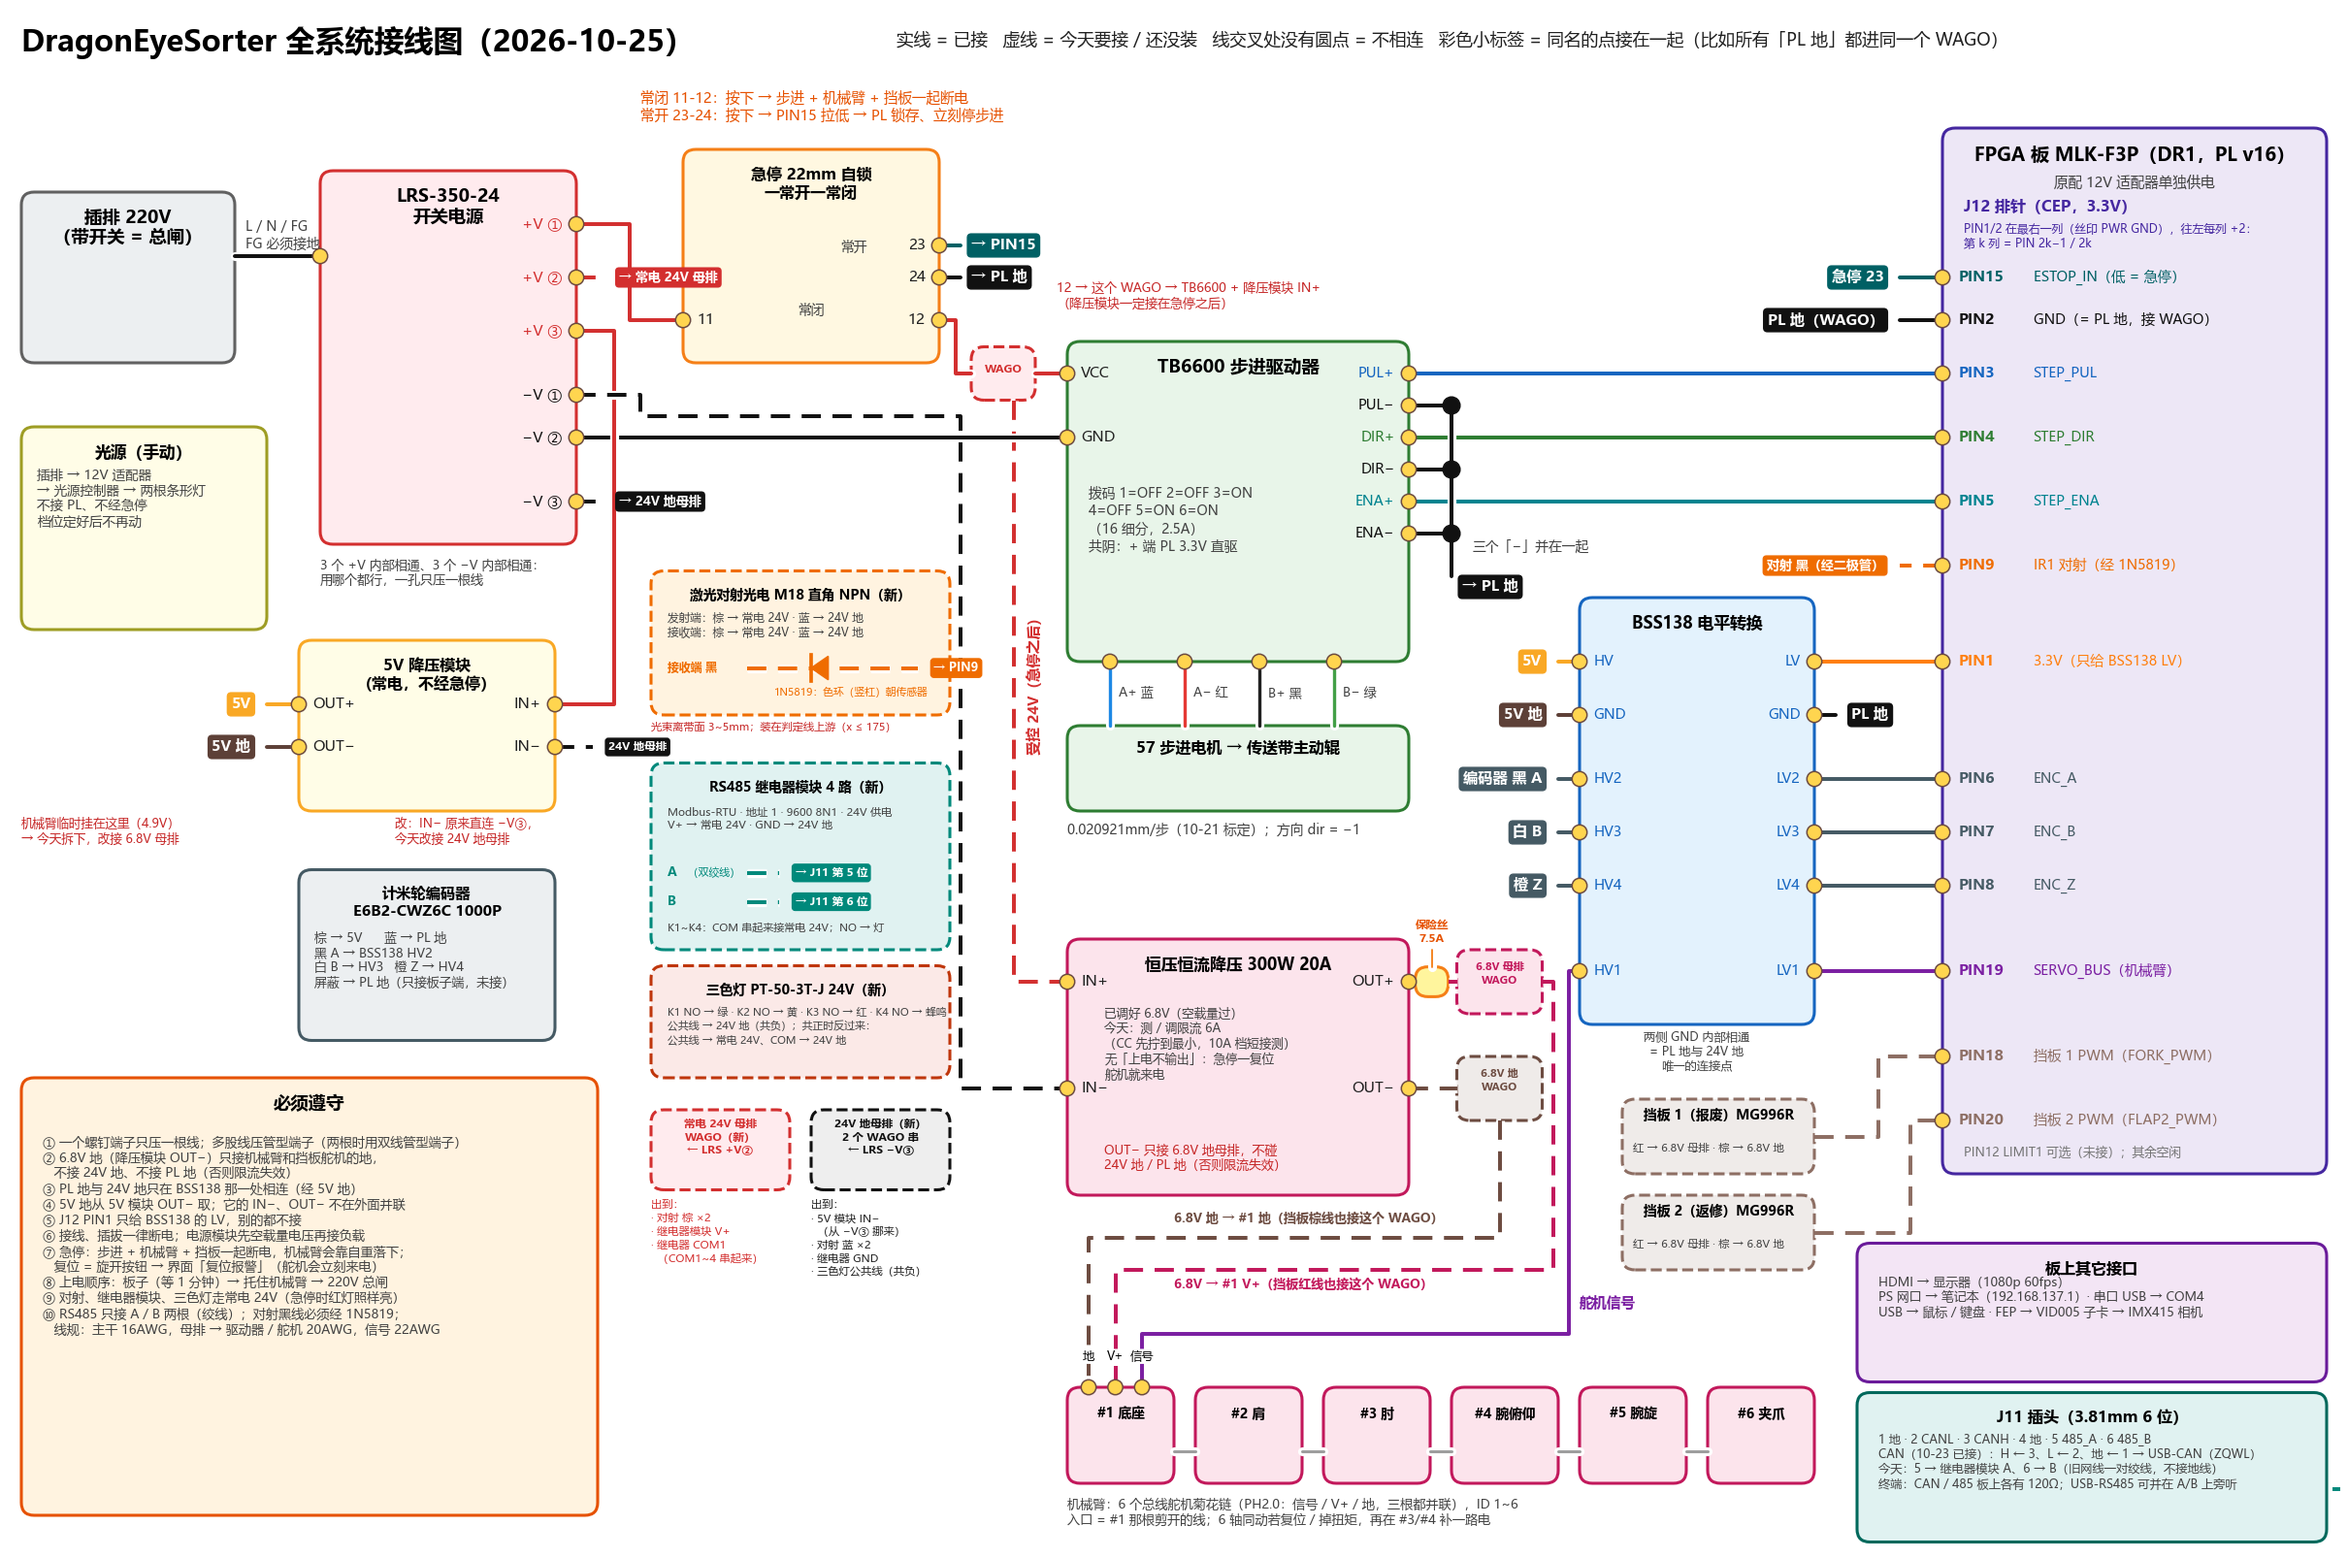
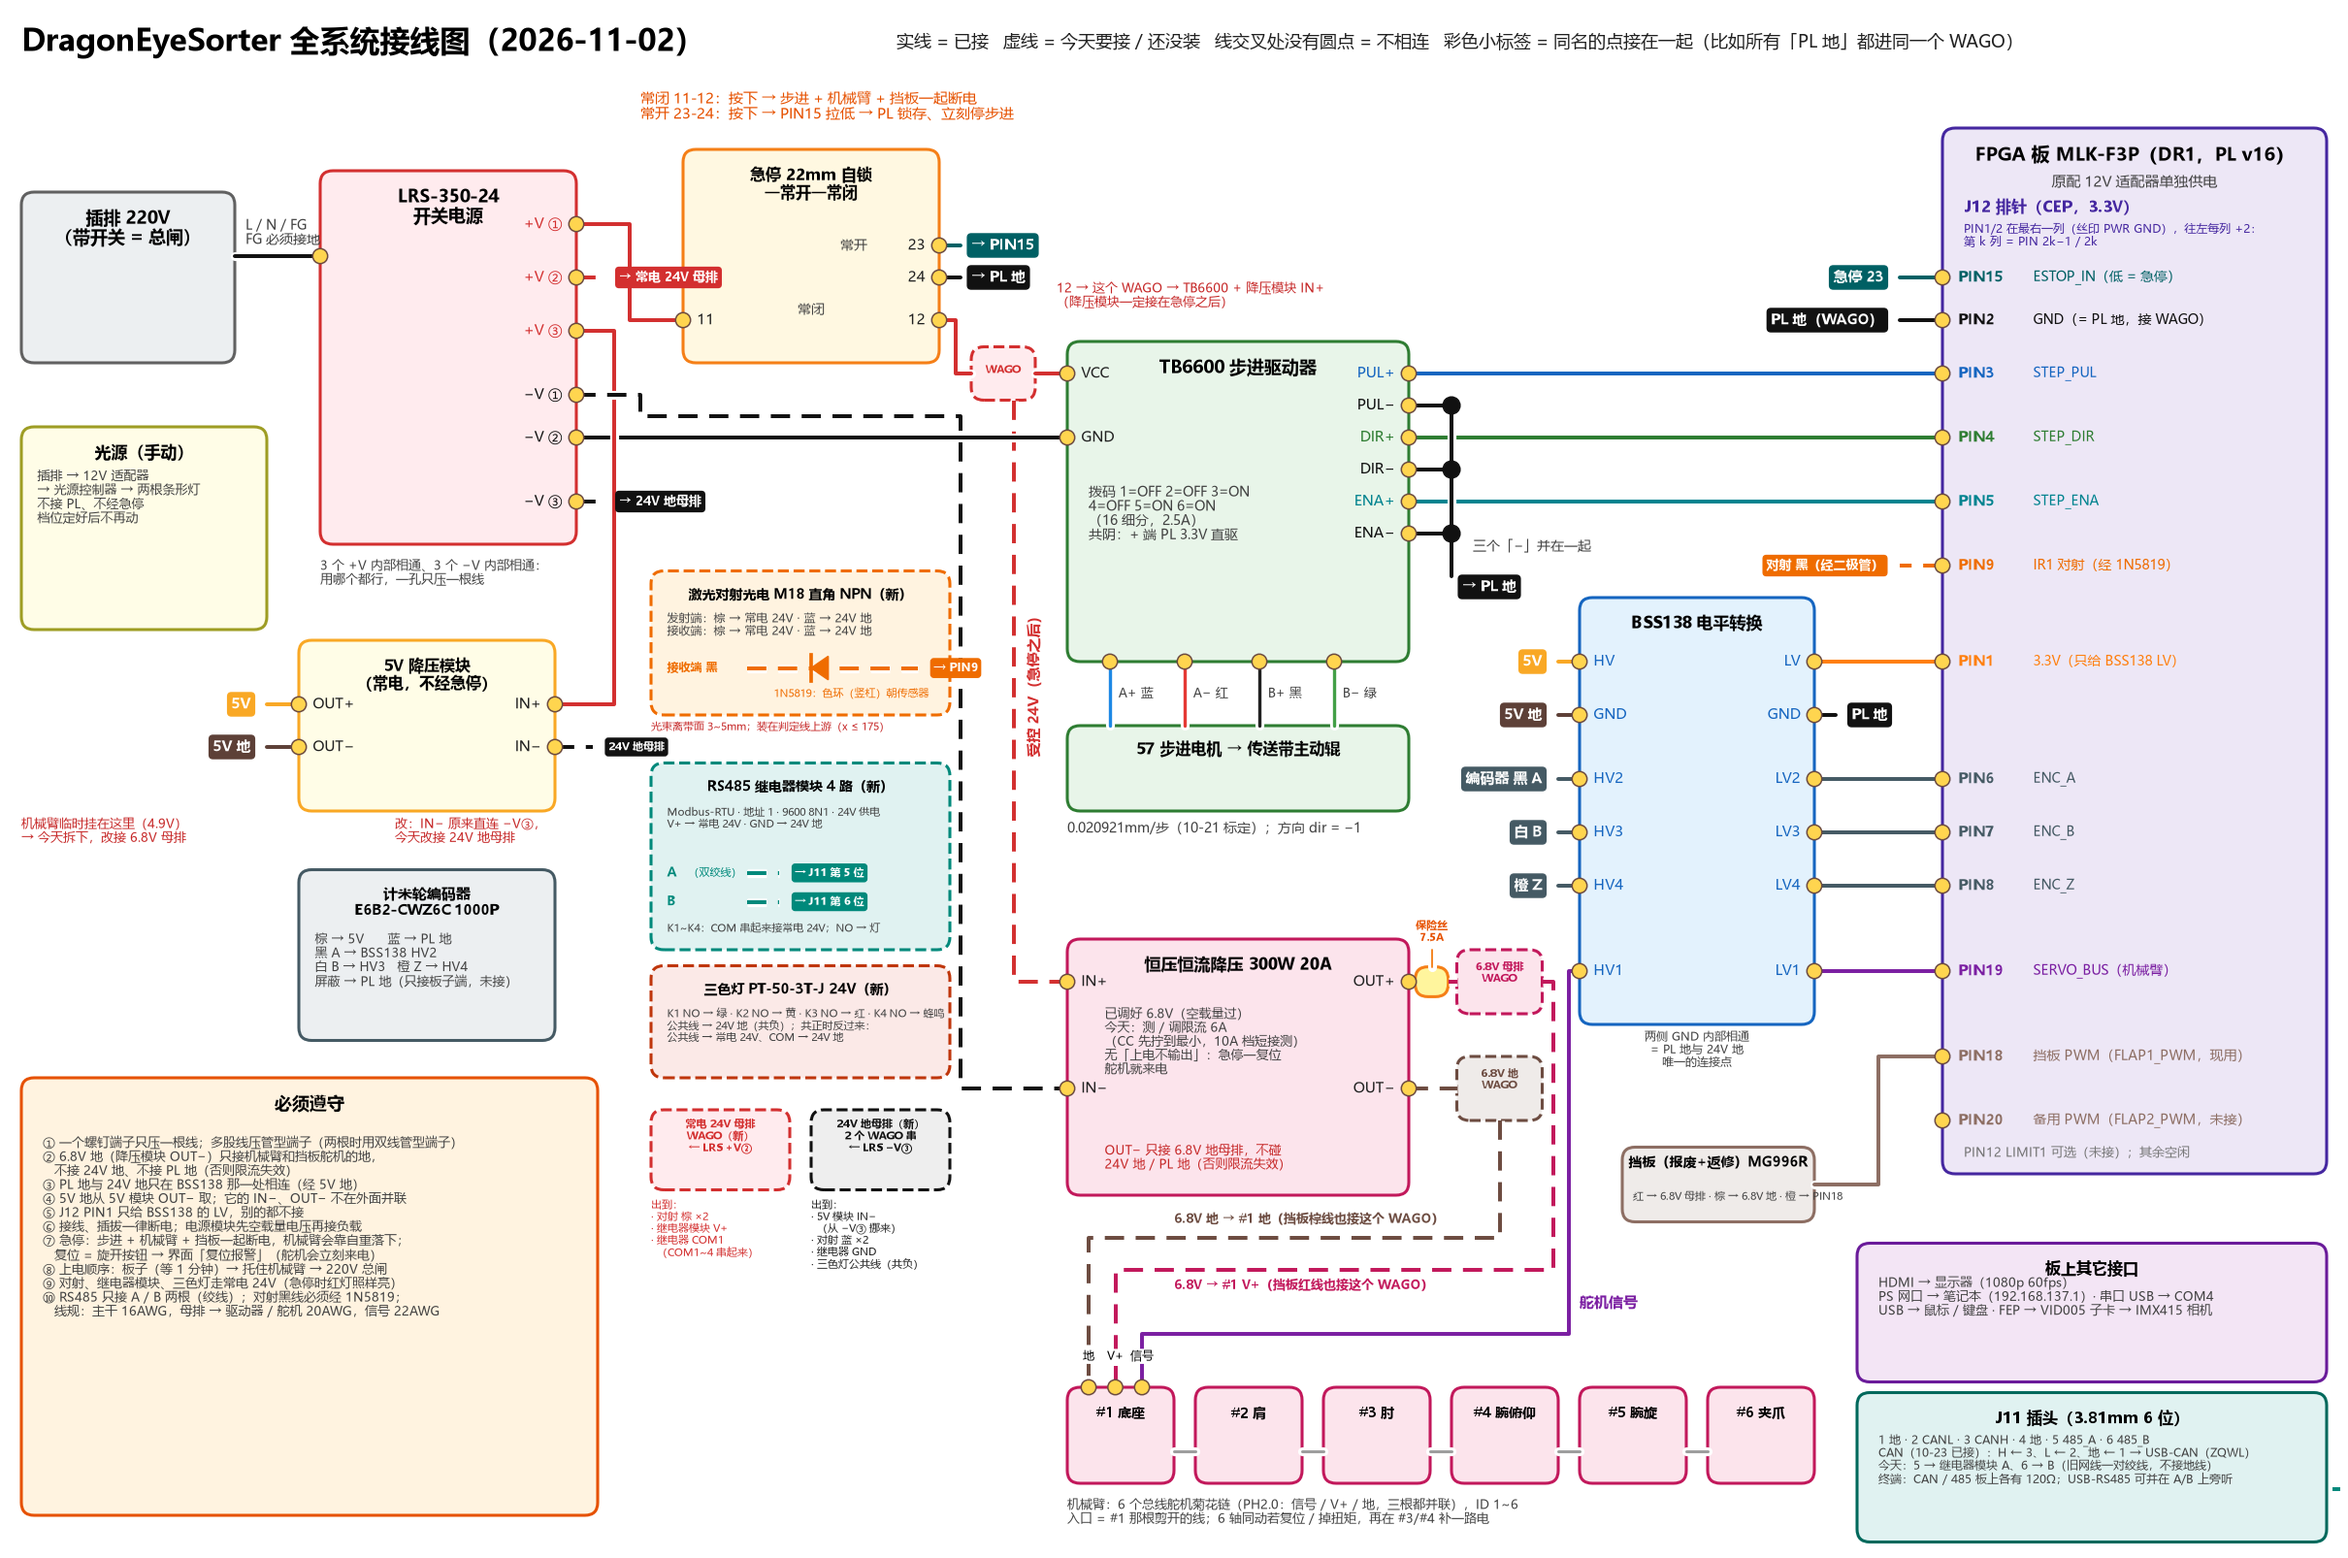
docs: 挡板同步 11-01 单挡板实况——MG996R ×1、PIN18 现用（FLAP1）、PIN20 备用未接，接线图重出 2026-11-02 版

diff --git a/docs/figures/make_system_wiring.py b/docs/figures/make_system_wiring.py
@@ -4,7 +4,7 @@ servo supply (300 W CV/CC buck at 6.8 V + fuse), 5 V supply, encoder, level shif
 servos, through-beam sensor, RS485 relay module + tower light, the board header J12 and the bus terminal J11.
 Solid = wired, dashed = to wire now / not installed yet. Long-distance nets (PL ground, 5 V, always-on 24 V, 24 V
 ground) are drawn as labelled tags. Source of truth for the values: docs/硬件与接线.md, docs/到货联调清单.md.
-State as of 2026-10-25 (everything bought has arrived; board on PL v16).
+State as of 2026-11-02 (board on PL v16; single tail-side flap, scrap + rework shared, since 11-01).
 
     python docs/figures/make_system_wiring.py
 """
@@ -82,7 +82,7 @@ def diode(x, y):
     ax.plot([x, x], [y - 1.2, y + 1.2], color=BEAM, lw=2.4, zorder=7)
 
 
-ax.text(2, 143.5, 'DragonEyeSorter 全系统接线图（2026-10-25）', fontsize=20, weight='bold', va='top')
+ax.text(2, 143.5, 'DragonEyeSorter 全系统接线图（2026-11-02）', fontsize=20, weight='bold', va='top')
 note(84, 143, '实线 = 已接   虚线 = 今天要接 / 还没装   线交叉处没有圆点 = 不相连   彩色小标签 = 同名的点接在一起'
      '（比如所有「PL 地」都进同一个 WAGO）', fs=11.5, color='#212121')
 
@@ -249,11 +249,10 @@ for x, lab in ((102, '地'), (104.5, 'V+'), (107, '信号')):
     ax.text(x, 18.3, lab, ha='center', va='bottom', fontsize=8, zorder=7,
             bbox=dict(boxstyle='round,pad=0.1', fc='white', ec='none'))
 
-# diverter gates (MG996R), not mounted yet
-for (y, lab, py, xs) in ((36, '挡板 1（报废）MG996R', 47, 176), (27, '挡板 2（返修）MG996R', 41, 179)):
-    box(152, y, 18, 7, lab, fc='#efebe9', ec=GATE, dashed=True, fs=9, ty=y + 6.2)
-    note(153, y + 2.9, '红 → 6.8V 母排 · 棕 → 6.8V 地', fs=7.4)
-    wire([(170, y + 3.5), (xs, y + 3.5), (xs, py), (182, py)], GATE, dashed=True)
+# diverter gate (MG996R) — 11-01 起带尾侧单挡板（报废与返修共用），信号在 PIN18（PIN20 备用未接）
+box(152, 31.5, 18, 7, '挡板（报废+返修）MG996R', fc='#efebe9', ec=GATE, fs=9, ty=37.7)
+note(153, 34.4, '红 → 6.8V 母排 · 棕 → 6.8V 地 · 橙 → PIN18', fs=7.4)
+wire([(170, 35), (176, 35), (176, 47), (182, 47)], GATE)
 
 # ---------------- level shifter BSS138 ----------------
 box(148, 50, 22, 40, 'BSS138 电平转换', fc='#e3f2fd', ec='#1565c0', fs=11)
@@ -290,8 +289,8 @@ pins = [(120, 'PIN15', 'ESTOP_IN（低 = 急停）', EST, False), (116, 'PIN2', 
         (99, 'PIN5', 'STEP_ENA', ENA, False), (93, 'PIN9', 'IR1 对射（经 1N5819）', BEAM, True),
         (84, 'PIN1', '3.3V（只给 BSS138 LV）', P33, False),
         (73, 'PIN6', 'ENC_A', ENC, False), (68, 'PIN7', 'ENC_B', ENC, False), (63, 'PIN8', 'ENC_Z', ENC, False),
-        (55, 'PIN19', 'SERVO_BUS（机械臂）', BUS, False), (47, 'PIN18', '挡板 1 PWM（FORK_PWM）', GATE, True),
-        (41, 'PIN20', '挡板 2 PWM（FLAP2_PWM）', GATE, True)]
+        (55, 'PIN19', 'SERVO_BUS（机械臂）', BUS, False), (47, 'PIN18', '挡板 PWM（FLAP1_PWM，现用）', GATE, True),
+        (41, 'PIN20', '备用 PWM（FLAP2_PWM，未接）', GATE, True)]
 for y, p, f, c, todo in pins:
     term(182, y, '', 'l')
     note(183.5, y, p, fs=10, color=c, weight='bold', va='center')

diff --git a/docs/硬件与接线.md b/docs/硬件与接线.md
@@ -2,7 +2,7 @@
 
 > 引脚细节以板卡手册与原理图为准；实测见 `log/`。
 >
-> **全系统接线图**：[figures/fig_system_wiring.png](figures/fig_system_wiring.png)（2026-10-25 版：电源 / 急停 / 传送带 / 300W 降压 → 保险丝 → 6.8V 母排 / 5V / 常电 24V / 编码器 / 电平转换 / 挡板 / 对射（1N5819 → PIN9）/ RS485 继电器模块 + 三色灯（→ J11 第 5 / 6 位）/ J12 全部引脚 / J11 CAN，实线已接、虚线待接或未装；`figures/make_system_wiring.py` 生成）。
+> **全系统接线图**：[figures/fig_system_wiring.png](figures/fig_system_wiring.png)（2026-11-02 版：电源 / 急停 / 传送带 / 300W 降压 → 保险丝 → 6.8V 母排 / 5V / 常电 24V / 编码器 / 电平转换 / 挡板（单，11-01 起）/ 对射（1N5819 → PIN9）/ RS485 继电器模块 + 三色灯（→ J11 第 5 / 6 位）/ J12 全部引脚 / J11 CAN，实线已接、虚线待接或未装；`figures/make_system_wiring.py` 生成）。
 
 ## 平台
 
@@ -12,7 +12,7 @@
 | 视觉 | VID005 子卡（占用 FEP 口）+ IMX415（MIPI CSI） |
 | 机械臂 | 德晟 DS-SY15A 串口总线舵机 ×6，6.0~7.4V，堵转 ≤2.4A，300° 行程，回差 / 虚位各 ≤1°；接口 PH2.0-3Pin |
 | 传送带 | 57BYG250B-D8 步进电机（1.8°，3.0A）+ TB6600 类驱动器（DC 9~42V） |
-| 侧边导流挡板 | MG996R ×2（与舵机同 6.8V 母排） |
+| 侧边导流挡板 | MG996R ×1（带尾侧单挡板，报废与返修共用；与舵机同 6.8V 母排） |
 | 板载总线 | CAN（TX F20 / RX F19，SN65HVD232）与 RS485（TX L17 / RX N16 / DE N15，SP3485EN），均 BANK33（3.3V），共用端子 J11（针座 KF2EDG 3.81mm 6P，需配插头 KF2EDGK-3.81-6P 才能拧线；原理图 p14：**1 GND、2 CANL、3 CANH、4 GND、5 485_A、6 485_B**；板上 CAN R120 / RS485 R121 各有 120Ω 终端电阻；两个 GND 在第 1、4 位，可用万用表通断档对 CEP PIN2 找 1 脚）。**CAN 已在最新版比特流引到 F20 / F19，10-23 接 PC USB-CAN 双节点实测通过**（[PL设计](PL设计.md)、[测试与验证](测试与验证.md)）。 |
 
 **舵机母排 6.8V**：夹爪 6kg 额定 4.8~6.0V，与 15kg 舵机共用菊花链；300W 20A 恒压恒流降压模块（24V → 6.8V、恒流限流；原 XY6020L 屏坏换下）供电，链上两处进电（见「供电树」）。6 舵机峰值 >10A、4 轴同时堵转约 75W，不沿用厂家 12V/5A/60W 原配适配器。
@@ -35,9 +35,9 @@
 | 9 | V6 | `IR1` | 入 | FPGA 内部上拉；对射光电接收端（NPN 集电极开路，实测两态均无 24V，直接接 PIN9；肖特基仅作防接错可选） |
 | 12 | V7 | `LIMIT1` | 入 | 内部上拉 + 去抖；挡板回位限位（可选） |
 | 15 | V11 | `ESTOP_IN` | 入 | 内部上拉，**低 = 急停**；急停常开触点另一端接地 |
-| 18 | Y6 | `FLAP1_PWM` | 出 | 直驱（舵机门限 2.0V）；导流挡板 1 = 报废（`des_pwm` 通道 0） |
+| 18 | Y6 | `FLAP1_PWM` | 出 | 直驱（舵机门限 2.0V）；现用挡板 = 带尾侧，报废与返修共用（`des_pwm` 通道 0） |
 | 19 | Y9 | `SERVO_BUS` | 双向 | **BSS138 双向电平转换**；机械臂舵机链 |
-| 20 | Y8 | `FLAP2_PWM` | 出 | 直驱；导流挡板 2 = 返修（`des_pwm` 通道 1；信号名沿用原翻板） |
+| 20 | Y8 | `FLAP2_PWM` | 出 | 直驱；备用未接（`des_pwm` 通道 1；11-01 起单挡板；信号名沿用原翻板） |
 | 10、11、13、14、16、17、21~26 | W6 / U7 / U9 / U8 / V10 / Y7 / V8 / W8 / W10 / W9 / W11 / Y11 | — | — | 空闲 12 根 |
 
 *J12 在板子下边缘、CAN/RS485 绿色端子 J11 右边；最右一列印「PWR GND」、旁边印「1」「2」= PIN1（3.3V）/ PIN2（GND）。*
@@ -88,7 +88,7 @@
 - **步进驱动器噪声（10-26 实测）**：TB6600 通电（哪怕不转、保持电流）会打坏 2~8% 的舵机总线帧，失能时 0；负极星形接法不够。程序已兜底（读重试、动作命令读回校验、停带 300ms 释放驱动器；des_app / des_tool 退出时也先停稳再释放，见 [log/2026-10-26](log/2026-10-26-舵机总线噪声排查.md)）；硬件上建议 TB6600 电源输入并 470~1000µF、PUL / DIR / ENA 各与回线绞并套磁环、舵机信号线远离电机线。电流与拨码见上面「步进驱动器」节。
 - 线规：主干（电源 → 急停 → 母排 → 降压）16AWG；母排 → 驱动器 / 舵机入口 20AWG；信号与小电流支路 22AWG / 杜邦线。
 - 多股软线进螺钉端子必须压管型端子；一个端子只压一根线；电源线两端贴线标；电解电容注意极性。
-- **导流挡板 MG996R**（棕 GND / 红 V+ / 橙信号）：橙 → 挡板 1（报废）J12 PIN18、挡板 2（返修）PIN20，3.3V 直驱（`des_pwm` 未使能时输出低、舵机无力）；信号线可串 1kΩ 防误碰 V+；电源挂 6.8V 母排 + 6.8V GND 母排。
+- **导流挡板 MG996R**（棕 GND / 红 V+ / 橙信号）：橙 → 现用挡板（带尾侧，报废与返修共用）J12 PIN18，3.3V 直驱（`des_pwm` 未使能时输出低、舵机无力）；PIN20 备用未接；信号线可串 1kΩ 防误碰 V+；电源挂 6.8V 母排 + 6.8V GND 母排。
 
 ## 急停逻辑（✅ 一起切）
 
